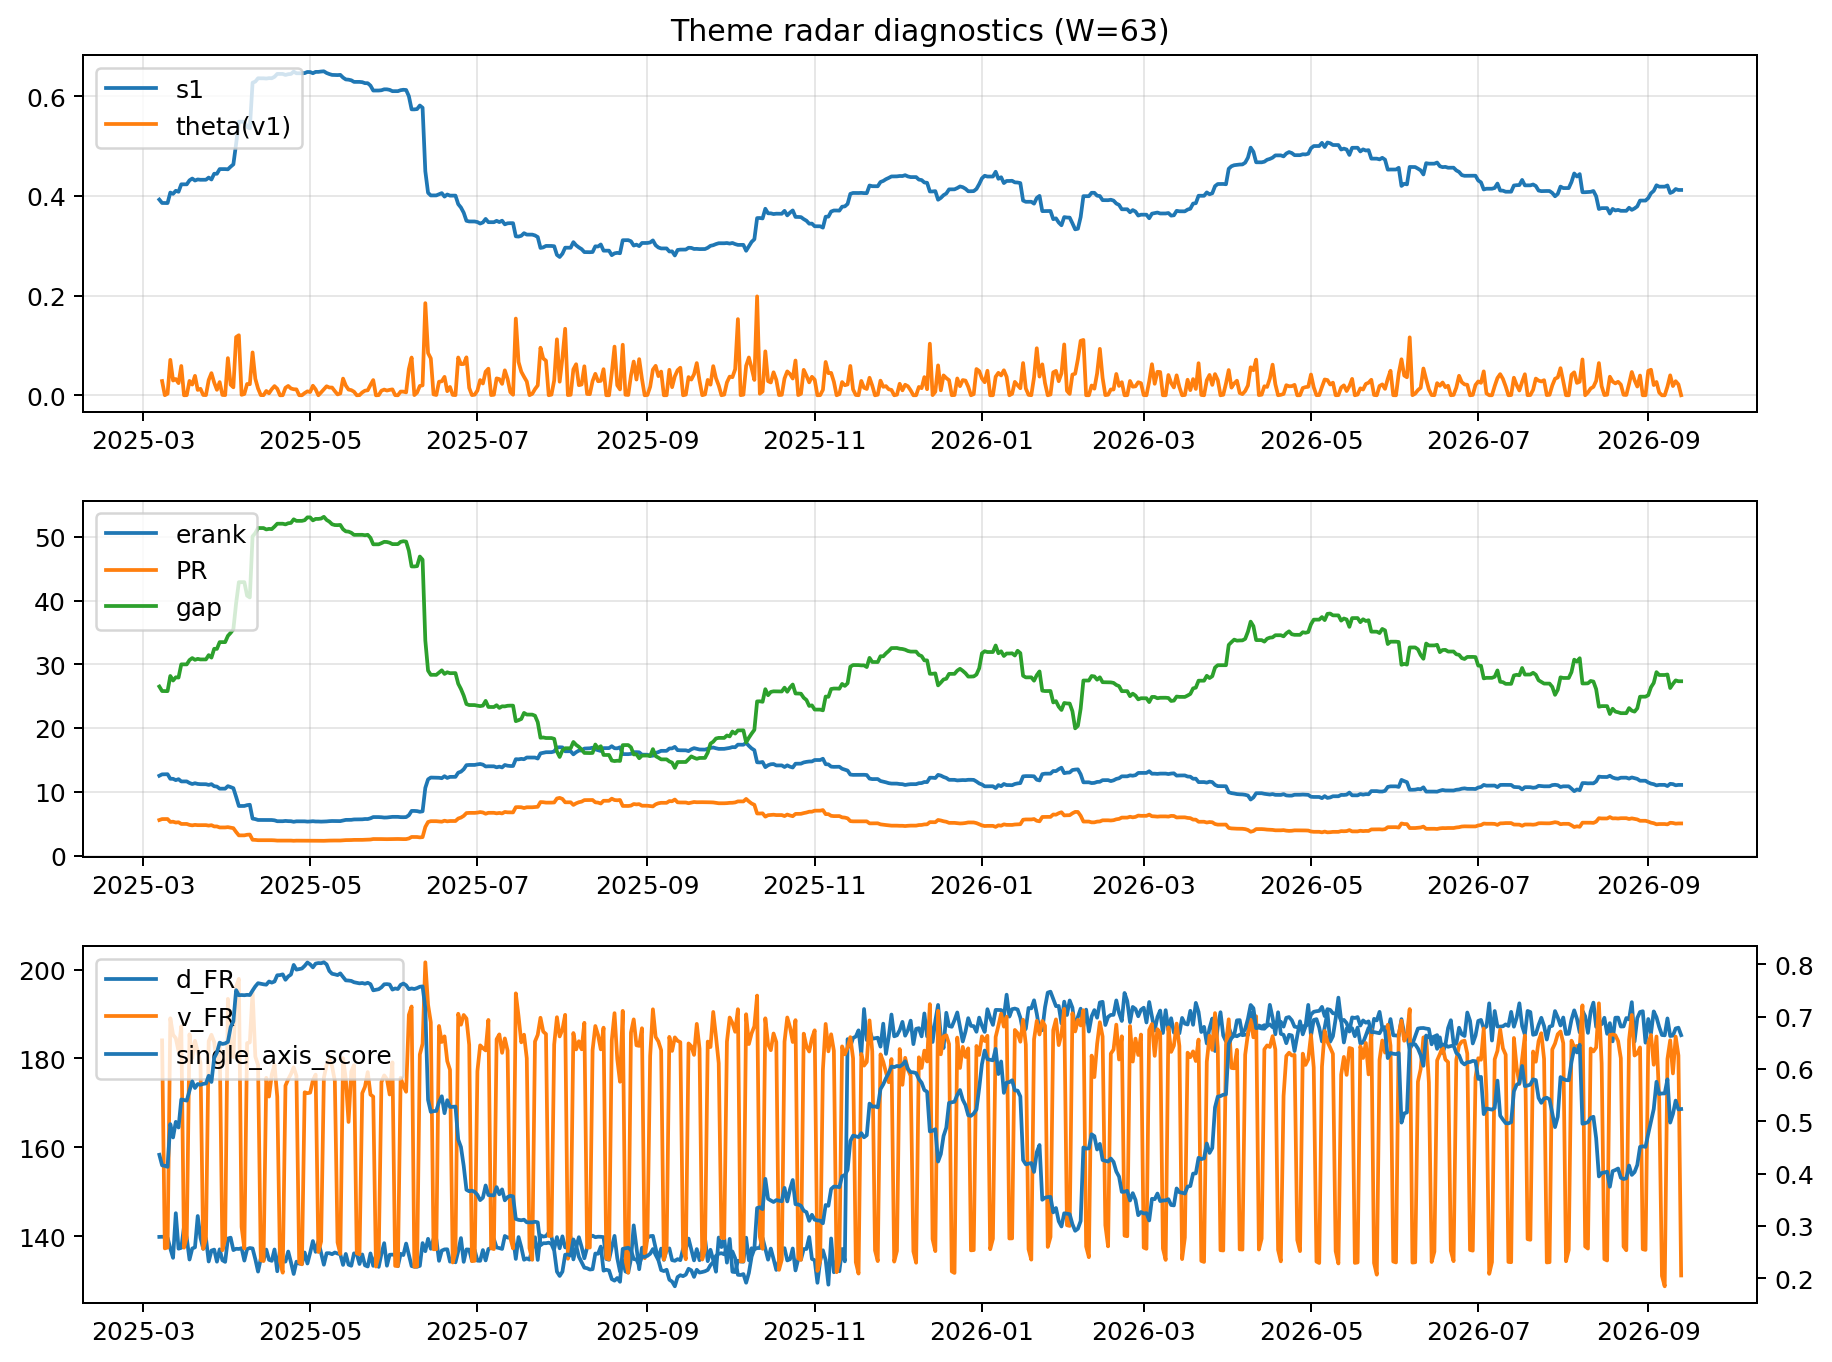
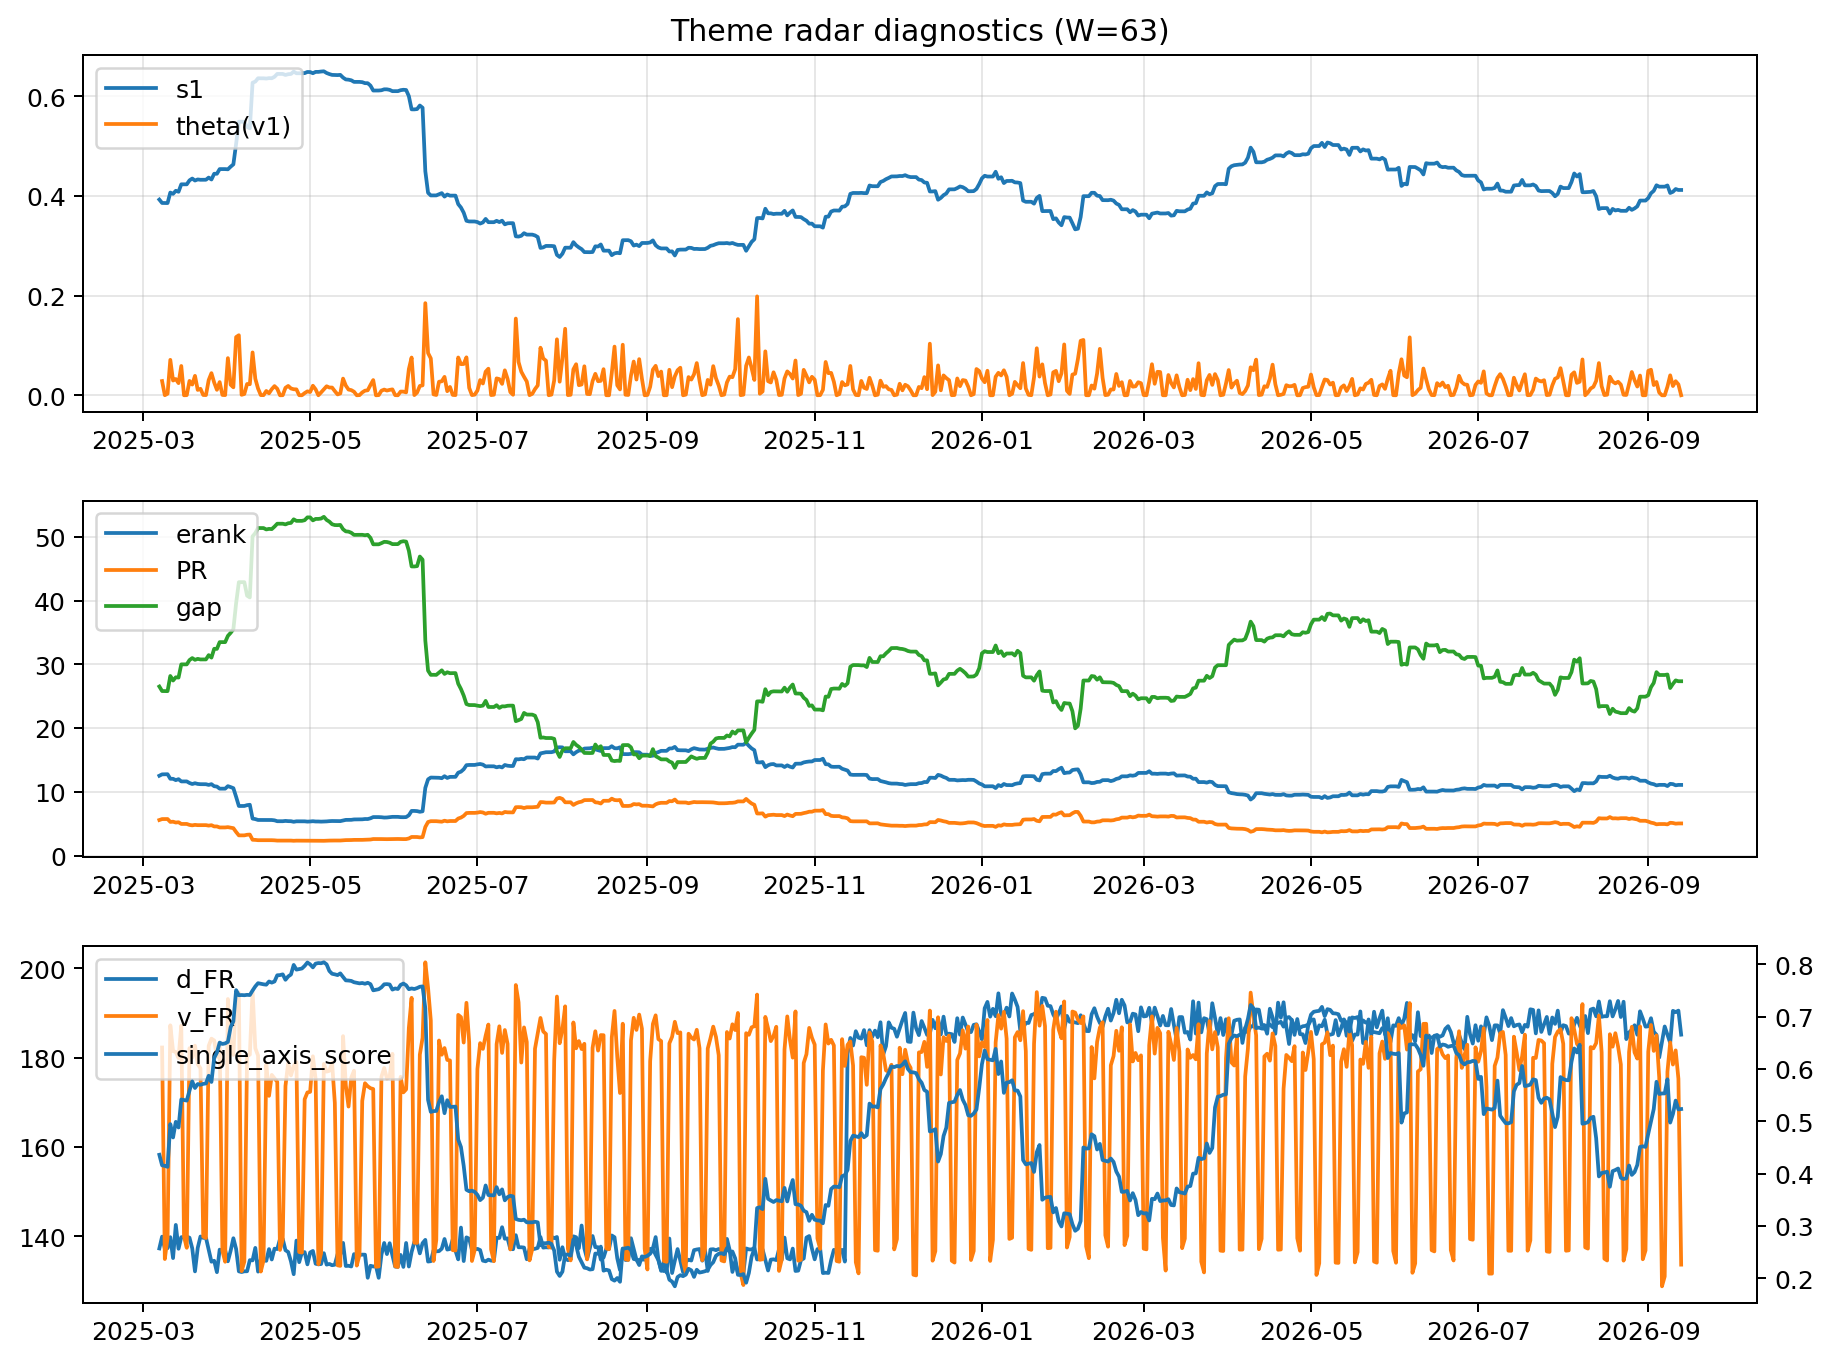
log: 2026-09-13 | sha256:0aa2d1d87a0eb093daddf3f631ded842e227be9acf4cde06a5b33ab1a01d4265

Changed region(s): [[0.0933, 0.7093, 0.9334, 0.9559], [0.809, 0.8943, 0.8401, 0.9251], [0.56, 0.8943, 0.5912, 0.9251]]

diff --git a/logs/2026-09-13.md b/logs/2026-09-13.md
@@ -3,43 +3,43 @@
 ![diagnostic W63](../assets/diagnostic/2026-09-13_W63.png)
 
 ## Leaders (v1) — W=63
-- **Nuclear_Uranium** (0.0844318883746875)
-- Semis (0.0691209701728761)
-- Quantum (0.0629578920880626)
+- **Nuclear_Uranium** (0.0844318912390918)
+- Semis (0.0691209716068171)
+- Quantum (0.0629578965310809)
 
 ## Challengers — W=63
-**v2:** Rates (0.093561889692972), Semis (0.0760187600575148), Genomics_Bio (0.0607743081431141)
-**v3:** Crypto (0.0792593006157137), Genomics_Bio (0.0768465637286423), Metals (0.0765966142326331)
+**v2:** Rates (0.0935619726750559), Semis (0.0760187868627705), Genomics_Bio (0.060774450018866)
+**v3:** Crypto (0.0792592780590144), Genomics_Bio (0.076846514947926), Metals (0.0765965881418761)
 
 ## Migration (20D slope) — W=63
 **Top risers:**
-- axis_DataCenter_Infra: 0.0005689918629259
-- axis_Rates: 0.000475784588919
-- axis_Genomics_Bio: 0.0004349427586064
-- axis_Crypto: 0.0004265052437359
-- axis_Space: 0.0002928080794726
-- axis_Metals: 0.0002219181178036
-- axis_Software_Cloud: 0.0002031475406075
-- axis_Drones_Autonomy: 0.0001679493180133
-- axis_Commodities: 0.0001556717205925
-- axis_MegaCap_AI: 0.0001351041674339
+- axis_DataCenter_Infra: 0.0005689920328369
+- axis_Rates: 0.0004757817733536
+- axis_Genomics_Bio: 0.0004349423118577
+- axis_Crypto: 0.0004265046785727
+- axis_Space: 0.0002928083329221
+- axis_Metals: 0.0002219169593686
+- axis_Software_Cloud: 0.0002031474074017
+- axis_Drones_Autonomy: 0.0001679490217263
+- axis_Commodities: 0.0001556716172502
+- axis_MegaCap_AI: 0.0001351045011393
 
 **Top fallers:**
-- axis_Sector_ConsStap: -0.0001343425505312
-- axis_Sector_Health: -0.0001426863857827
-- axis_Equity_US: -0.0001477551186922
-- axis_Quantum: -0.0001868650428025
-- axis_Sector_Utilities: -0.0002100956990638
-- axis_Critical_Minerals: -0.0002126274290842
-- axis_Grid_Power: -0.0002742627580004
-- axis_Sector_RealEstate: -0.0003091806247219
-- axis_Semis: -0.0003566839064614
-- axis_Nuclear_Uranium: -0.0004237680166328
+- axis_Sector_ConsStap: -0.0001343422981222
+- axis_Sector_Health: -0.0001426861048764
+- axis_Equity_US: -0.000147754795305
+- axis_Quantum: -0.0001868645847883
+- axis_Sector_Utilities: -0.0002100956721759
+- axis_Critical_Minerals: -0.000212627434268
+- axis_Grid_Power: -0.0002742619500928
+- axis_Sector_RealEstate: -0.0003091802980097
+- axis_Semis: -0.0003566828216848
+- axis_Nuclear_Uranium: -0.0004237679911049
 
 ## Risk line (W=63)
-- s1: 0.4118701579924629
-- theta_v1: 0.0001308816271734
-- v_FR: 131.15022701641595
+- s1: 0.4118702046382165
+- theta_v1: 0.0001308816365043
+- v_FR: 133.63608824172215
 - single_axis_score: 0.5233812949640289
 
 ## Interpretation
@@ -48,7 +48,7 @@
 - Action: Tomorrow watchlist: DataCenter_Infra, Rates, Genomics_Bio, Crypto, Space + v2_top1=Rates
 - Action: Hedge note: normal correlation stability.
 
-- Percentiles (W=63 history): vfr_pct=0.01, theta_pct=0.08, s1_pct=0.53, score_pct=0.52.
+- Percentiles (W=63 history): vfr_pct=0.05, theta_pct=0.08, s1_pct=0.53, score_pct=0.52.
 
 ---
[2 lines of base64/hex data omitted]
